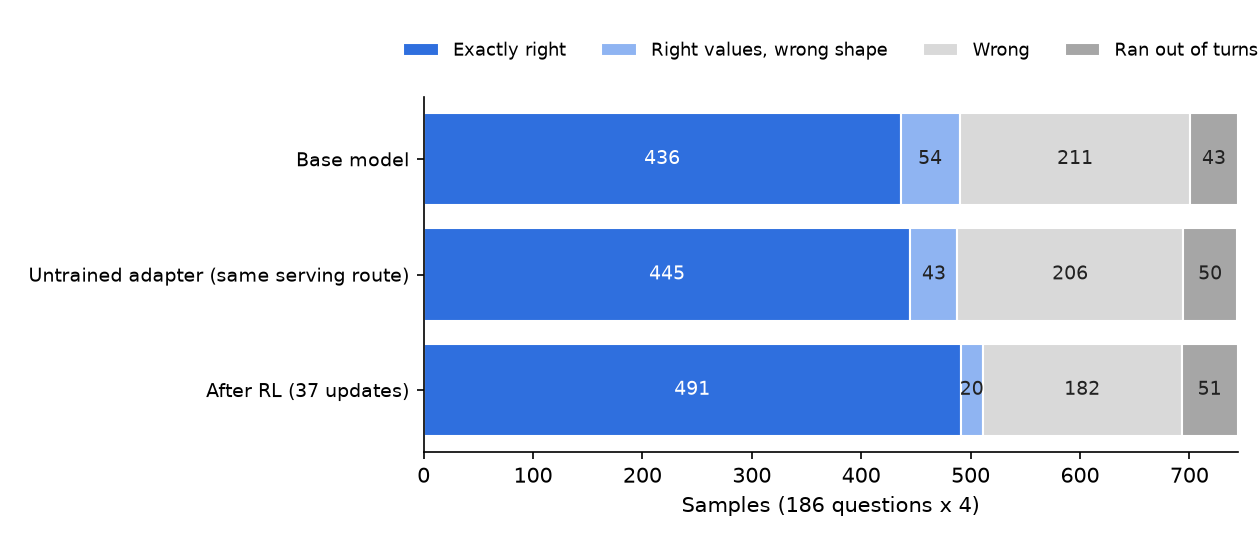
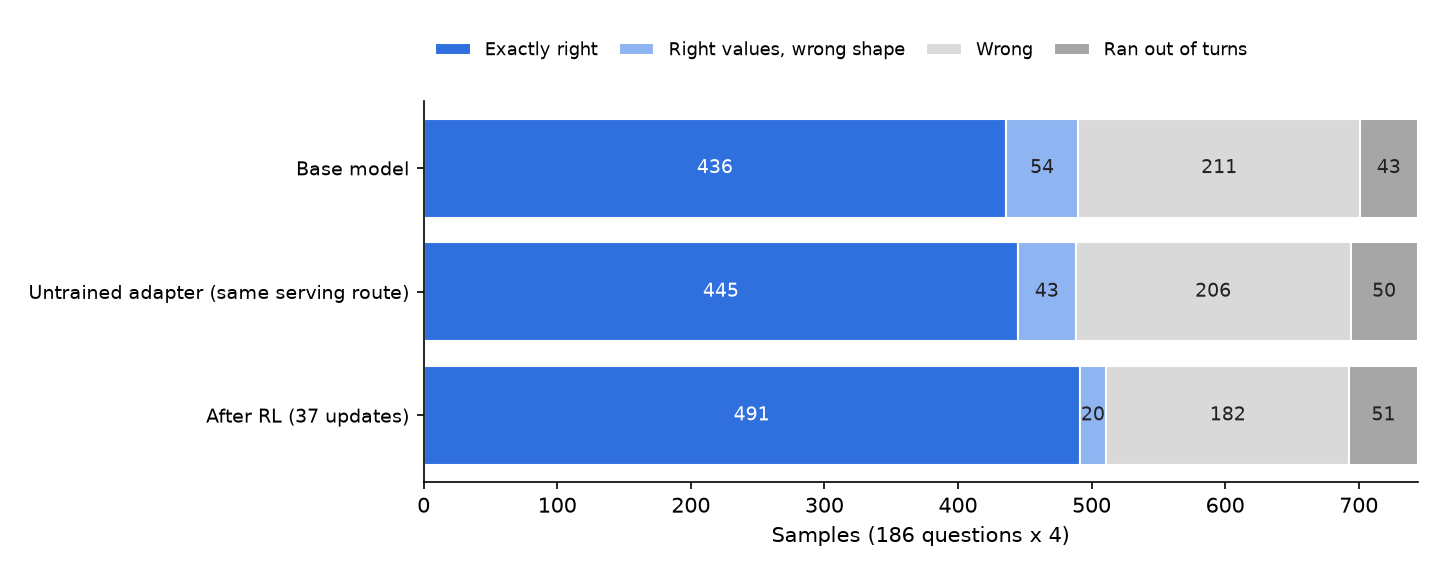
bird_graph_rl: fix clipped legend in the outcomes figure
Claude-Session: https://claude.ai/code/session_01A9qMYWiG45Sz2D6LQShkQ1

diff --git a/training/examples/bird_graph_rl/blog/make_figures.py b/training/examples/bird_graph_rl/blog/make_figures.py
@@ -85,7 +85,7 @@ def main() -> None:
              ("wrong", "Wrong", "#d9d9d9"), ("wrong_turn_cap", "Ran out of turns", "#a6a6a6"), ("no_query", "No query", "#555")]
     cats = {a: Counter(category(p[i]) for p in ps for i in q) for a, ps in P.items()}
     numbers["sample_outcomes"] = {a: dict(c) for a, c in cats.items()}
-    fig, ax = plt.subplots(figsize=(8.4, 3.6))
+    fig, ax = plt.subplots(figsize=(9.6, 3.8))
     for y, a in enumerate(reversed(list(ARMS))):
         left = 0
         for key, name, color in order:
@@ -99,7 +99,7 @@ def main() -> None:
     ax.set_yticks(range(3), [LABEL[a].replace("\n", " ") for a in reversed(list(ARMS))], fontsize=9)
     ax.set_xlabel("Samples (186 questions x 4)")
     ax.set_xlim(0, 744)
-    ax.legend(ncol=4, fontsize=8.5, loc="upper center", bbox_to_anchor=(0.5, 1.2), frameon=False)
+    ax.legend(ncol=4, fontsize=8.5, loc="upper center", bbox_to_anchor=(0.42, 1.2), frameon=False, columnspacing=1.2)
     ax.spines[["top", "right"]].set_visible(False)
     fig.tight_layout()
     fig.savefig(OUT / "fig3_outcomes.png", dpi=150)
